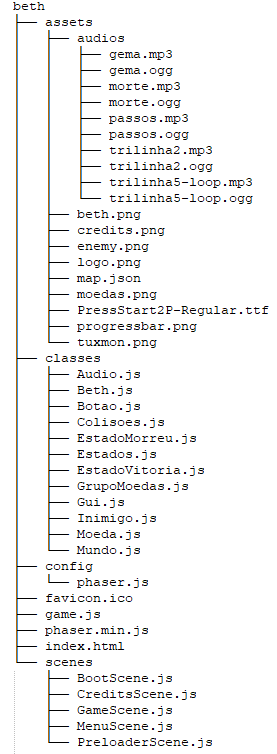
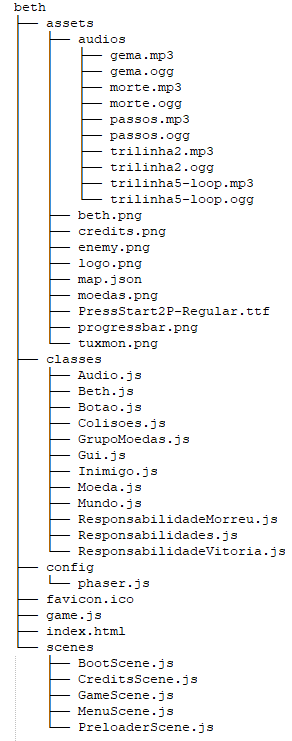
beth continuação

diff --git a/manuscript/24 - beth_b.md b/manuscript/24 - beth_b.md
@@ -28,6 +28,120 @@ Na linha 15 definimos o evento "pointerup" que chamará a scene alvo quando solt
 
 ## classes/Colisoes.js
 
-Esta classe não é um objeto de exibição, ela é responsável por gerenciar as colisões entre a personagem e as moedas, e a personagem e o inimigo. O código é bem simples.
+Esta classe não é um objeto de exibição, ela é responsável por tratar as colisões entre a personagem e as moedas, e a personagem e o inimigo.
+O código é bem simples. Temos 2 métodos que serão utilizados como callback no evento de colisões que veremos mais adiante.
 
 ![fig 88](resources/img/fig088.png)
+
+### Método ``bethMoedas(moeda)``
+
+Na linha 7 destruimos a moeda que colidiu com a personagem. Nas linhas 8 e 9 atualizamos a contagem de pontos e as moedas colhidas no objeto de dados que criamos lá no nosso arquivo ``game.js``.
+
+Na linha 10 atualizamos a exibição de pontos e moedas no objeto da classe ``Gui`` que veremos mais a frente. Este objeto está anexado à scene, por isso podemos acessá-lo com ``this.scene.gui.update()``.
+
+Na linha 11 e 12 testamos se as moedas acabaram e nesse caso emitimos um evento "acabou_moedas" que será escutado na scene ``GameScene``, na linha 61.
+Na linha 16 tocamos o som da moeda executando o método ``play()`` do objeto ``audio.moeda`` que foi declarado na classe ``Audio``, como já vimos. Este objeto foi anexado ao game na ``MenuScene``, linhas 9 e 10. Por isso podemos acessá-lo com ``this.scene.sys.game.audio.moeda.play()``.
+
+### Método ``bethInimigo()``
+
+Nas linhas 18 e 19 temos o método ``bethInimigo`` que será usado como callback da colisão entre a personagem e o inimigo. Este método apenas emite o evento "pegou", que será escutado em ``GameScene``, linha 62.
+
+## Chain of responsibility (Responsabilidades.js, ResponsabilidadeMorreu.js, ResponsabilidadeVitoria.js)
+
+Com estas 3 classes montamos o padrão de projetos "chain of responsibility" (corrente de resposabilidades) para lidar com a vitória ou morte da personagem.
+
+![fig 89](resources/img/fig089.png)
+
+Na figura temos um esquema de como as 3 classes interagem.
+
+Na ``GameScene.js`` instanciamos a classe Responsabilidades. Dentro da classe da classe Responsabilidades instanciamos ResponsabilidadeVitoria e responsabilidadsMorreu.
+
+Na classe GameScene chamamos o método this.responsabilidades.executa('vitoria') ou this.responsabilidades.executa('morreu')).
+
+A partir daí a classe Responsabilidades chama o método executa() da classe ResponsabilidadeVitoria que executa a ação "vitória" ou passa a responsabilidade para a classe responsabilidadeMorreu se a ação não é "vitória".
+
+A vantagem de montar esse padrão é que poderíamos ter muitas outras ações e só precisaríamos para isso criar uma classe para cada nova ação, sem precisar mexer nas outras classes.
+
+Vamos agora analisar as 3 classes dessa corrente.
+
+### classes/Responsabilidades.js
+
+![fig 90](resources/img/fig090.png)
+
+Nas linhas nas primeiras 2 linhas importamos as 2 classes auxiliares correspondentes as ações "vitoria" e "morreu".
+
+Na linha 6 colocamos o objeto this.escene.sys.game.audio na variável this.audio (), lembrando que o objeto this.scene.sys.game.audio foi criado na linha 9 em ``SceneMenu.js``.
+
+No método executa(acao) primeiramente paramos a música do jogo e iniciamos tocamos a música de espera.
+
+Na linha 16 instanciamos a classe ResponsabilidadeMorreu, passando como parâmetro this.scene.
+
+Na linha 17 instanciamos a classe ResponsabilidadeVitoria, passando como parâmetro this.scene e a this.morreu.
+
+Na linha 18 chamamos this.vitoria.executa(acao), que dará início à corrente de responsabilidades.
+
+### classes/ResponsabilidadeVitoria.js
+
+![fig 91](resources/img/fig091.png)
+
+Na primeira linha importamos a classe Botao.
+
+Na linha 5 definimos a variável this.next com o a classe que passada no segundo parâmetro do constructor. No nosso caso a classe passada aqui foi responsabilidadeMorreu.
+
+Nas linhas 6 e 7 pegamos as dimensões da tela do game.
+
+![fig 92](resources/img/fig092.png)
+
+Aqui temos definido o método executa(acao).
+
+Na linha 10 verificamos se a ação a ser executada é "vitoria". Se for, tratamos essa ação nas próximas linha. E caso não seja, passamos para a linha 36 que veremos mais a frente.
+
+Na linha 11 definimos o estado do gama para 'vitoria'.
+
+Nas linha 12 a 16 criamos um botão que chamará SceneGame quando pressionado.
+
+Na linha 15 definimos a propriedade this.btnReiniciar.setScrollFactor(0), que fará com que o botão fique fixo na tela independentemente da posição da câmera.
+
+Na linha 16 definimos a profundidade do botão como 100 para garantir que não será sobreposto por outros objetos do game.
+
+![fig 93](resources/img/fig093.png)
+
+Nas linha 17 a 27 criamos um objeto para mostrar o texto "VITÓRIA !!!" na tela.
+
+Nas linhas 29 e 30 definimos o fator de scroll para 0 fixando o texto na tela e definimos a profundidade com 100 para, da mesma forma, garantir que o texto não seja sobreposto por outros objetos.
+
+![fig 94](resources/img/fig094.png)
+
+Na linha 33 destruímos o inimigo.
+
+Se a ação não for "vitoria" todo o bloco anterior não será executado e a linha 36 chama o método executa da próxima classe, que no nosso caso é responsabilidadeMorreu.
+
+### classes/ResponsabilidadeMorreu.js
+
+![fig 95](resources/img/fig095.png)
+
+Na primeira linha importamos a classe Botao.
+
+Na linha 5 definimos a variável this.next com o a classe que passada no segundo parâmetro do constructor. No nosso caso a classe passada aqui foi responsabilidadeMorreu.
+
+Nas linhas 6 e 7 pegamos as dimensões da tela do game.
+
+![fig 96](resources/img/fig096.png)
+
+Na linha 10 verificamos se a ação é "morreu". Se for, executaremos o bloco de código a partir da linha 11.
+
+Nas linhas 11 a 13 definimos as variáveis de dados do game.
+
+![fig 97](resources/img/fig097.png)
+
+Nas linhas de 14 a 28 colocamos na tela o texto "MORREU :-(", com o fator de scroll 0 e profundidade 100 como nos textos anteriores.
+
+![fig 98](resources/img/fig098.png)
+
+Nas linhas 29 a 33 colocamos o botão "[reiniciar]"  na tela.
+
+![fig 99](resources/img/fig099.png)
+
+Na linha 35 destruímos a personagem e na linha 38 tocamos o som da morte.
+
+A linha 40 passaríamos a execução para a classe seguinte se a ação não fosse "morreu". No nosso caso isso não ocorrerá porque esta classe é a última da corrente de responsabilidade.
